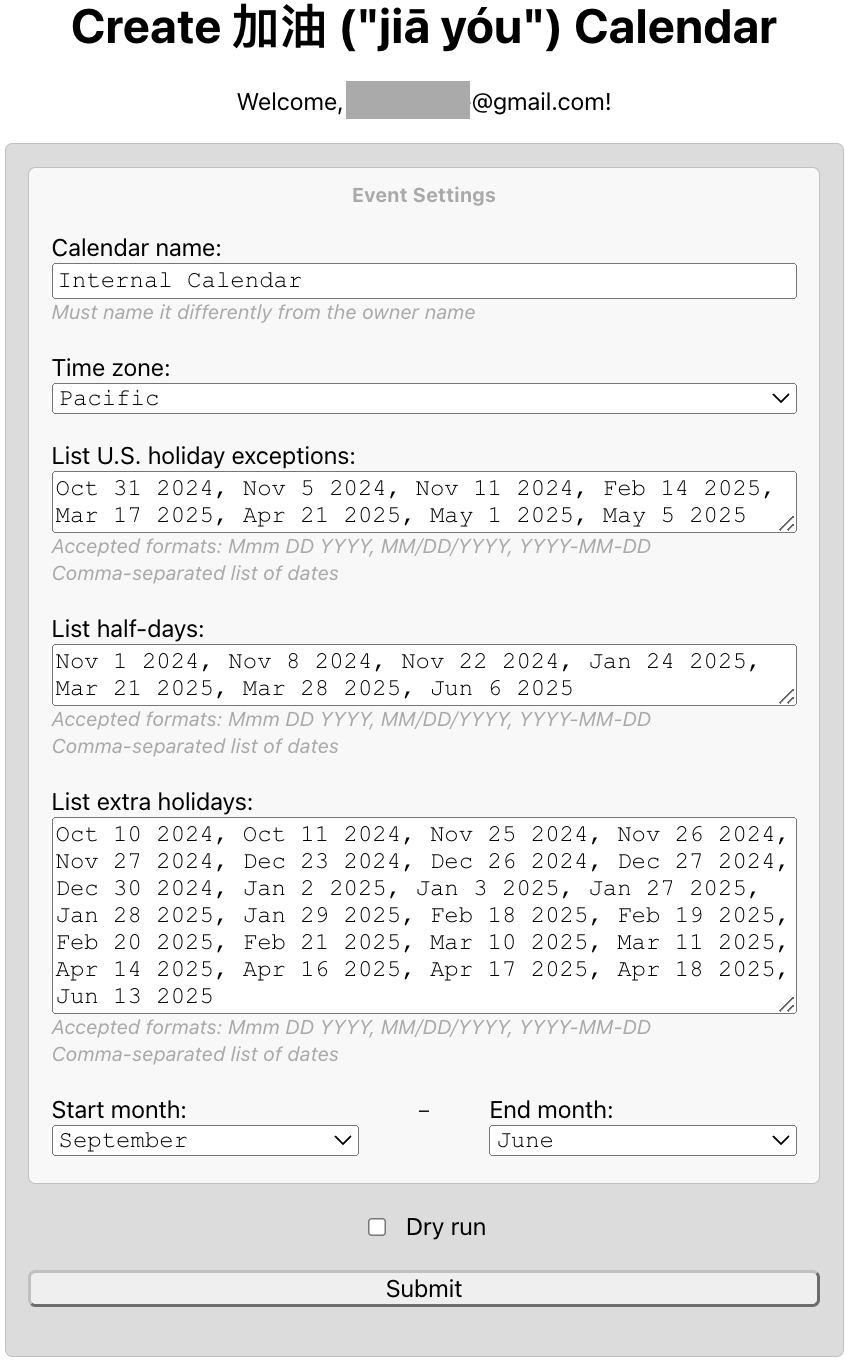
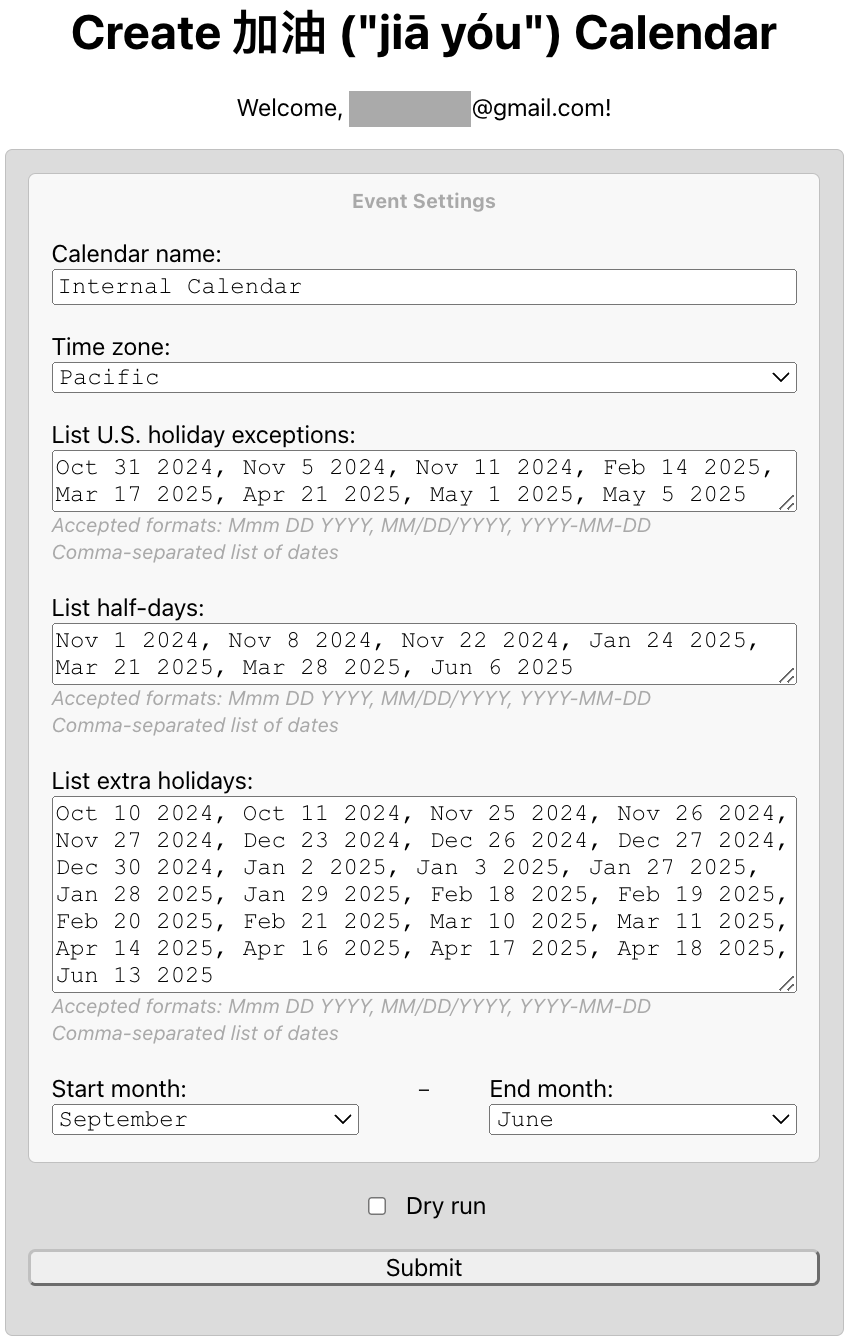
owner name no longer an issue

diff --git a/Index.html b/Index.html
@@ -122,8 +122,8 @@
           value="Internal Calendar"
           required
         />
-        <text>Must name it differently from the owner name</text>
-        <br /><br />
+        <!-- <text>Must name it differently from the owner name</text> -->
+        <br /><!--<br />-->
 
         <label for="timeZone">Time zone:</label>
         <select id="timeZone" name="timeZone">

diff --git a/README.md b/README.md
@@ -21,7 +21,7 @@ Access to [Google Apps Script](https://script.google.com/)
 5. Copy and paste [the markup text](./Index.html) into the editor, and save the file.
 6. Deploy the project as a Web app, and open the assigned URL.
 7. Check the username to ensure that you opened the URL in the correct account.
-8. Modify the calendar name and time zone. (**_Must name it differently from the owner name, otherwise the app will not create the calendar._**)
+8. Modify the calendar name and time zone.
 9. Add any exceptions to the U.S. holiday schedule, any half-days, and any extra holidays. (Exceptions tell the app script to create events on these holidays; half-days tell the app script to skip this day; and extra holidays tell the app script _not_ to create events on these non-holidays.)
 10. Modify the start and end months. (If the start month is greater than the end month, then the calendar will roll over to the new year.)
 11. Optionally perform a dry run to test the Web app before running it in production. Consult logs for output.
